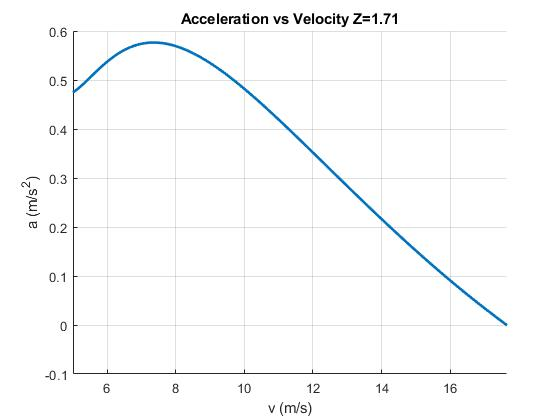
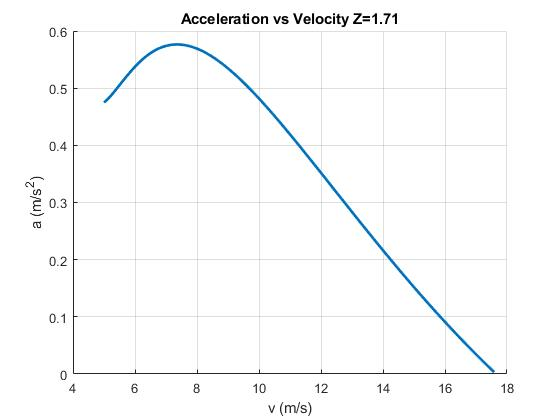
Changed Figure Bounds vs Velocity

diff --git a/VelocityRelations.m b/VelocityRelations.m
@@ -3,25 +3,26 @@ function v_range = VelocityRelations(vehicle)
 	v_range = v_min:(v_max-v_min)/1e3:v_max;
 	[a_range, ~, F_t_range, F_q_range, F_k_range, F_net_range] = vehicle.Acceleration(v_range);
 	[~, k_top] = min(abs(a_range));
-	v_bounds = [v_min, v_range(k_top)];
+	if a_range(k_top) < 0
+		k_top = k_top - 1;
+	end
+	k_range = 1:k_top;
 	figure();
 	hold('on');
 	grid('on');
-	plot(v_range, a_range, 'LineWidth', 2);
-	xlabel('v (m/s)');
-	xlim(v_bounds);
+	plot(v_range(k_range), a_range(k_range), 'LineWidth', 2);
 	ylabel('a (m/s^2)');
+	xlabel('v (m/s)');
 	title(sprintf('Acceleration vs Velocity Z=%.2f', vehicle.Z));
 	figure();
 	hold('on');
 	grid('on');
-	plot(v_range, F_t_range, 'LineWidth', 2);
-	plot(v_range, F_q_range, 'LineWidth', 2);
-	plot(v_range, F_k_range, 'LineWidth', 2);
-	plot(v_range, F_net_range, 'LineWidth', 2);
-	xlabel('v (m/s)');
-	xlim(v_bounds);
+	plot(v_range(k_range), F_t_range(k_range), 'LineWidth', 2);
+	plot(v_range(k_range), F_q_range(k_range), 'LineWidth', 2);
+	plot(v_range(k_range), F_k_range(k_range), 'LineWidth', 2);
+	plot(v_range(k_range), F_net_range(k_range), 'LineWidth', 2);
 	ylabel('F (N)');
+	xlabel('v (m/s)');
 	title(sprintf('Forces vs Velocity Z=%.2f', vehicle.Z));
 	legend('F_t', 'F_q', 'F_k', 'F_{net}', 'Location', 'Best');
 end
